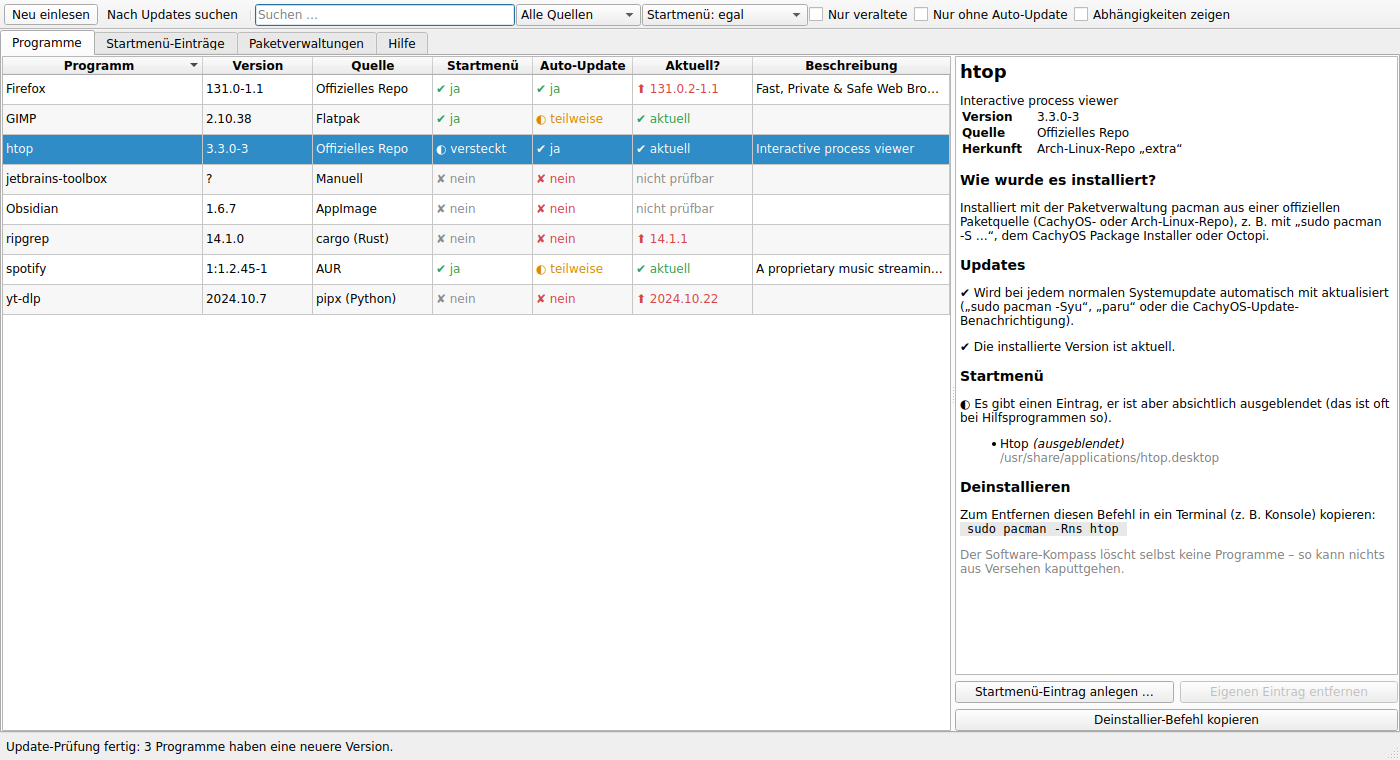
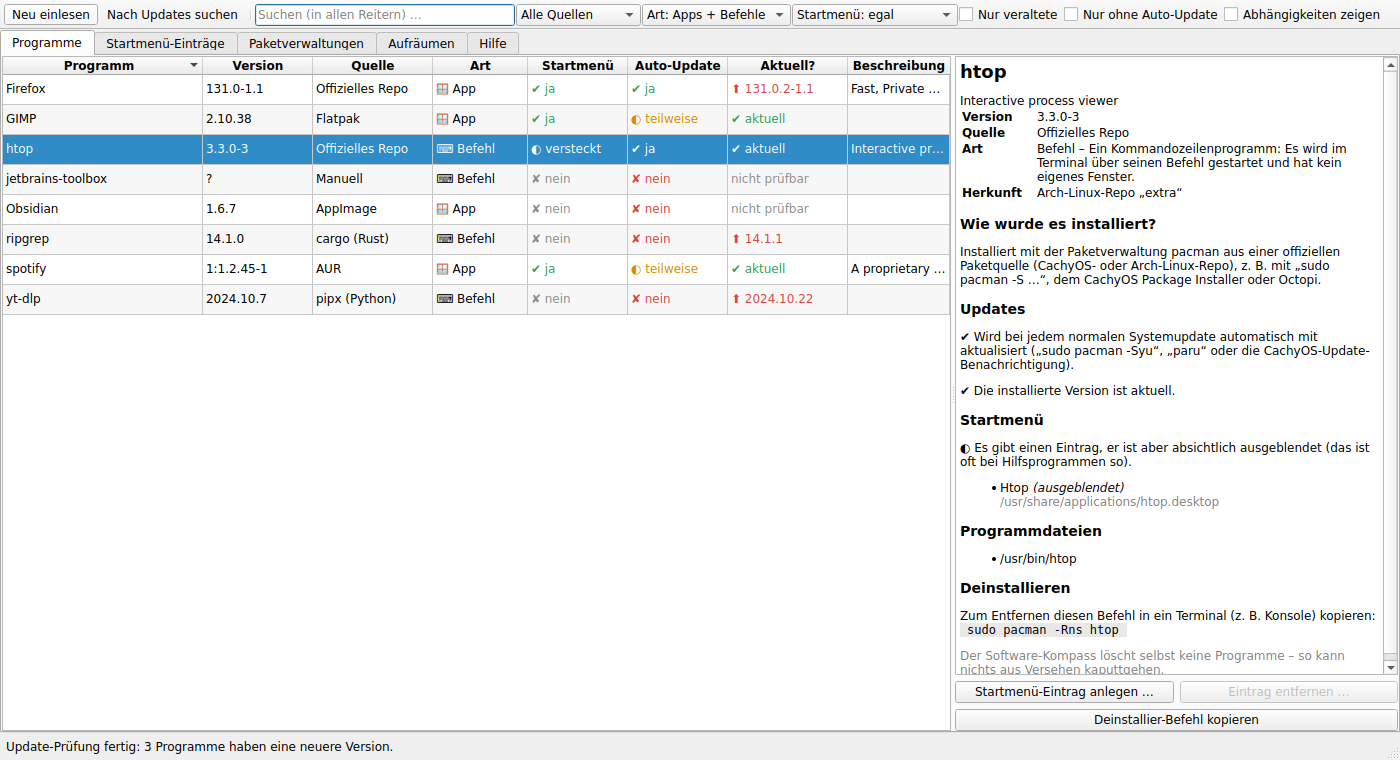
Spalte „Art“ (App / Befehl / Sonstiges) mit Filter (0.4.0)
Jedes Programm wird eingeordnet:
- App: sichtbarer Startmenü-Eintrag, Flatpak oder AppImage
- Befehl: hat Programmdateien, aber keinen sichtbaren Menüeintrag
- Sonstiges: keine Programmdateien (Schriftarten, Treiber, Firmware,
  Bibliotheken, Designs, Sammelpakete)

Neuer Filter „Art“ in der Werkzeugleiste, Standard „Apps + Befehle“ –
also nur, was man als Benutzer starten kann. Die Art erscheint auch in
der Detailansicht und in --cli/--json. Homebrew-Formeln ohne eigenes
Programm werden nicht mehr als Befehl gezählt.

Claude-Session: https://claude.ai/code/session_01Bj8dsgos9An5zq6RmXS7dU

diff --git a/cachy_kompass/gui/table_model.py b/cachy_kompass/gui/table_model.py
@@ -7,15 +7,26 @@ from typing import Any
 from PySide6.QtCore import QAbstractTableModel, QModelIndex, QSortFilterProxyModel, Qt
 from PySide6.QtGui import QColor
 
-from cachy_kompass.models import AutoUpdate, MenuStatus, Program, Source, UpdateStatus
+from cachy_kompass.models import KIND_INFO, AutoUpdate, Kind, MenuStatus, Program, Source, UpdateStatus
 
 GREEN = QColor("#2e9d4f")
 ORANGE = QColor("#d98a00")
 RED = QColor("#d64545")
 GREY = QColor("#8a8a8a")
 
-COLUMNS = ["Programm", "Version", "Quelle", "Startmenü", "Auto-Update", "Aktuell?", "Beschreibung"]
-COL_NAME, COL_VERSION, COL_SOURCE, COL_MENU, COL_AUTO, COL_UPDATE, COL_DESC = range(len(COLUMNS))
+COLUMNS = ["Programm", "Version", "Quelle", "Art", "Startmenü", "Auto-Update", "Aktuell?", "Beschreibung"]
+COL_NAME, COL_VERSION, COL_SOURCE, COL_KIND, COL_MENU, COL_AUTO, COL_UPDATE, COL_DESC = range(len(COLUMNS))
+
+KIND_TEXT = {Kind.APP: "🪟 App", Kind.COMMAND: "⌨ Befehl", Kind.OTHER: "📦 Sonstiges"}
+
+#: Auswahl im Filter „Art“: Beschriftung → erlaubte Arten
+KIND_FILTERS: list[tuple[str, frozenset[Kind]]] = [
+    ("Art: Apps + Befehle", frozenset({Kind.APP, Kind.COMMAND})),
+    ("Art: nur Apps", frozenset({Kind.APP})),
+    ("Art: nur Befehle", frozenset({Kind.COMMAND})),
+    ("Art: nur Sonstiges", frozenset({Kind.OTHER})),
+    ("Art: alles", frozenset(Kind)),
+]
 
 MENU_TEXT = {MenuStatus.VISIBLE: "✔ ja", MenuStatus.HIDDEN: "◐ versteckt", MenuStatus.NONE: "✘ nein"}
 MENU_COLOR = {MenuStatus.VISIBLE: GREEN, MenuStatus.HIDDEN: ORANGE, MenuStatus.NONE: GREY}
@@ -80,6 +91,7 @@ class ProgramTableModel(QAbstractTableModel):
                 p.display_name,
                 p.version,
                 p.info.label,
+                KIND_TEXT[p.kind],
                 MENU_TEXT[p.menu_status],
                 AUTO_TEXT[p.info.auto_update],
                 update_text(p),
@@ -88,6 +100,8 @@ class ProgramTableModel(QAbstractTableModel):
         if role == SORT_ROLE:
             if col == COL_NAME:
                 return p.display_name.lower()
+            if col == COL_KIND:
+                return list(Kind).index(p.kind)
             if col == COL_MENU:
                 return list(MenuStatus).index(p.menu_status)
             if col == COL_AUTO:
@@ -110,6 +124,8 @@ class ProgramTableModel(QAbstractTableModel):
                 return p.update.note
             if col == COL_SOURCE:
                 return p.origin
+            if col == COL_KIND:
+                return KIND_INFO[p.kind]
             if col == COL_DESC:
                 return p.description
         return None
@@ -126,6 +142,8 @@ class ProgramFilterModel(QSortFilterProxyModel):
         self.only_outdated = False
         self.only_manual_update = False
         self.show_dependencies = False
+        # Standard: nur, was man als Benutzer starten kann
+        self.kinds: frozenset[Kind] = KIND_FILTERS[0][1]
         self.setSortRole(SORT_ROLE)
         self.setSortCaseSensitivity(Qt.CaseSensitivity.CaseInsensitive)
 
@@ -140,6 +158,8 @@ class ProgramFilterModel(QSortFilterProxyModel):
         if not self.show_dependencies and not p.explicit:
             return False
         if self.source is not None and p.source is not self.source:
+            return False
+        if p.kind not in self.kinds:
             return False
         if self.menu is not None and p.menu_status is not self.menu:
             return False

diff --git a/cachy_kompass/gui/main_window.py b/cachy_kompass/gui/main_window.py
@@ -41,6 +41,7 @@ from cachy_kompass.gui.table_model import (
     COL_NAME,
     GREEN,
     GREY,
+    KIND_FILTERS,
     ORANGE,
     PROGRAM_ROLE,
     RED,
@@ -111,6 +112,18 @@ class MainWindow(QMainWindow):
         )
         bar.addWidget(self.source_filter)
 
+        self.kind_filter = QComboBox()
+        for label, kinds in KIND_FILTERS:
+            self.kind_filter.addItem(label, kinds)
+        self.kind_filter.setToolTip(
+            "App = Programm mit Fenster · Befehl = fürs Terminal · "
+            "Sonstiges = nicht startbar (Schriftarten, Treiber, Bibliotheken …)"
+        )
+        self.kind_filter.currentIndexChanged.connect(
+            lambda: self.proxy.update_filter(kinds=self.kind_filter.currentData())
+        )
+        bar.addWidget(self.kind_filter)
+
         self.menu_filter = QComboBox()
         self.menu_filter.addItem("Startmenü: egal", None)
         self.menu_filter.addItem("Startmenü: vorhanden", MenuStatus.VISIBLE)
@@ -163,7 +176,7 @@ class MainWindow(QMainWindow):
         header = self.table.horizontalHeader()
         header.setSectionResizeMode(QHeaderView.ResizeMode.Interactive)
         header.setSectionResizeMode(COL_DESC, QHeaderView.ResizeMode.Stretch)
-        for col, width in enumerate([200, 110, 120, 100, 100, 120]):
+        for col, width in enumerate([200, 110, 120, 95, 100, 100, 120]):
             self.table.setColumnWidth(col, width)
         header.setMinimumSectionSize(60)
         self.table.selectionModel().currentRowChanged.connect(self._show_details)

diff --git a/cachy_kompass/models.py b/cachy_kompass/models.py
@@ -46,6 +46,27 @@ class UpdateStatus(Enum):
     NOT_CHECKABLE = "nicht prüfbar"
 
 
+class Kind(Enum):
+    """Was für eine Art von Software ist das – kann man es als Benutzer starten?"""
+
+    APP = "App"            # hat ein Fenster, startet aus dem Startmenü
+    COMMAND = "Befehl"     # Kommandozeilenprogramm fürs Terminal
+    OTHER = "Sonstiges"    # nicht startbar: Bibliothek, Schriftart, Treiber, Design …
+
+
+KIND_INFO: dict[Kind, str] = {
+    Kind.APP: "Ein Programm mit eigenem Fenster, das du aus dem Startmenü starten kannst.",
+    Kind.COMMAND: (
+        "Ein Kommandozeilenprogramm: Es wird im Terminal über seinen Befehl gestartet "
+        "und hat kein eigenes Fenster."
+    ),
+    Kind.OTHER: (
+        "Nichts zum Starten: z. B. eine Bibliothek, Schriftart, ein Treiber, Firmware, "
+        "ein Design oder ein Sammelpaket, das andere Pakete mitbringt."
+    ),
+}
+
+
 class MenuStatus(Enum):
     """Ist das Programm über das Startmenü erreichbar?"""
 
@@ -295,6 +316,15 @@ class Program:
     @property
     def info(self) -> SourceInfo:
         return SOURCE_INFO[self.source]
+
+    @property
+    def kind(self) -> Kind:
+        """App, Befehl oder Sonstiges – siehe ``Kind``."""
+        if self.menu_status is MenuStatus.VISIBLE or self.source in (Source.FLATPAK, Source.APPIMAGE):
+            return Kind.APP
+        if self.executables:
+            return Kind.COMMAND
+        return Kind.OTHER
 
     @property
     def menu_status(self) -> MenuStatus:

diff --git a/tests/test_scanner.py b/tests/test_scanner.py
@@ -44,3 +44,22 @@ def test_check_updates_routes_to_source():
     scanner.apply_updates(progs, results)
     assert progs[0].update.latest == "9"
     assert progs[1].update.status is UpdateStatus.NOT_CHECKED
+
+
+def test_kind_classification(tmp_path):
+    from cachy_kompass.desktop import entry_from_raw
+    from cachy_kompass.models import Kind
+
+    font = Program("ttf-dejavu", "2.37", Source.REPO)
+    git = Program("git", "2.46", Source.REPO, executables=["/usr/bin/git"])
+    firefox = Program("firefox", "131", Source.REPO, executables=["/usr/bin/firefox"])
+    firefox.desktop_entries = [entry_from_raw(tmp_path / "f.desktop", "f.desktop", {"Name": "Firefox", "Exec": "firefox"})]
+    helper = Program("kio", "6", Source.REPO, executables=["/usr/bin/kioclient"])
+    helper.desktop_entries = [entry_from_raw(tmp_path / "k.desktop", "k.desktop", {"Name": "KIO", "NoDisplay": "true"})]
+    assert font.kind is Kind.OTHER
+    assert git.kind is Kind.COMMAND
+    assert firefox.kind is Kind.APP
+    assert helper.kind is Kind.COMMAND  # nur versteckter Eintrag → kein „App“
+    assert Program("org.gimp.GIMP", "2", Source.FLATPAK).kind is Kind.APP
+    assert Program("Obsidian", "1", Source.APPIMAGE).kind is Kind.APP
+    assert Program("lodash", "4", Source.NPM).kind is Kind.OTHER  # Bibliothek ohne Befehle

diff --git a/cachy_kompass/cli.py b/cachy_kompass/cli.py
@@ -14,6 +14,7 @@ def _row(p: Program) -> list[str]:
         p.display_name,
         p.version,
         p.info.label,
+        p.kind.value,
         p.menu_status.value,
         p.info.auto_update.value,
         p.update.status.value + (f" ({p.update.latest})" if p.update.latest and p.update.latest != p.version else ""),
@@ -21,7 +22,7 @@ def _row(p: Program) -> list[str]:
 
 
 def print_table(programs: list[Program]) -> None:
-    header = ["Programm", "Version", "Quelle", "Startmenü", "Auto-Update", "Aktuell?"]
+    header = ["Programm", "Version", "Quelle", "Art", "Startmenü", "Auto-Update", "Aktuell?"]
     rows = [header] + [_row(p) for p in programs]
     widths = [min(max(len(r[i]) for r in rows), 40) for i in range(len(header))]
     for n, row in enumerate(rows):
@@ -38,6 +39,7 @@ def to_json(programs: list[Program]) -> str:
                 "display_name": p.display_name,
                 "version": p.version,
                 "source": p.source.value,
+                "kind": p.kind.value,
                 "origin": p.origin,
                 "explicit": p.explicit,
                 "description": p.description,

diff --git a/cachy_kompass/gui/details.py b/cachy_kompass/gui/details.py
@@ -7,7 +7,7 @@ from html import escape
 
 from cachy_kompass import APP_NAME, __version__, desktop
 from cachy_kompass.installers import InstallerStatus, Rating
-from cachy_kompass.models import SOURCE_INFO, AutoUpdate, MenuStatus, Program, Source, UpdateStatus
+from cachy_kompass.models import KIND_INFO, SOURCE_INFO, AutoUpdate, MenuStatus, Program, Source, UpdateStatus
 
 
 def _row(label: str, value: str) -> str:
@@ -27,6 +27,7 @@ def program_html(p: Program) -> str:
 
     rows = [_row("Version", escape(p.version or "?"))]
     rows.append(_row("Quelle", escape(p.info.label)))
+    rows.append(_row("Art", f"{escape(p.kind.value)} – {escape(KIND_INFO[p.kind])}"))
     if p.origin:
         rows.append(_row("Herkunft", escape(p.origin)))
     if not p.explicit:

diff --git a/cachy_kompass/sources/devtools.py b/cachy_kompass/sources/devtools.py
@@ -209,7 +209,7 @@ class BrewSource(PackageSource):
                 version=version,
                 source=Source.BREW,
                 origin="Homebrew",
-                executables=[f"{prefix}/{name}"] if prefix else [],
+                executables=[f"{prefix}/{name}"] if prefix and Path(f"{prefix}/{name}").exists() else [],
                 url=f"https://formulae.brew.sh/formula/{name}",
             )
             for name, version in versions.items()

diff --git a/cachy_kompass/__init__.py b/cachy_kompass/__init__.py
@@ -3,6 +3,6 @@
 CachyOS-System installiert sind, woher sie stammen und ob sie im Startmenü
 auftauchen."""
 
-__version__ = "0.3.2"
+__version__ = "0.4.0"
 APP_NAME = "Cachy Software-Kompass"
 APP_ID = "cachy-kompass"

diff --git a/README.md b/README.md
@@ -120,6 +120,7 @@ Die Hauptansicht. Jede Zeile ist ein Programm.
 | **Programm** | Name des Programms (wenn möglich so, wie er im Startmenü steht) |
 | **Version** | installierte Version |
 | **Quelle** | auf welchem Weg es installiert wurde (siehe [Begriffe](#begriffe-einfach-erklärt)) |
+| **Art** | 🪟 **App** (Programm mit Fenster) · ⌨ **Befehl** (Kommandozeilenprogramm fürs Terminal) · 📦 **Sonstiges** (nicht startbar: Schriftarten, Treiber, Firmware, Bibliotheken, Designs, Sammelpakete) |
 | **Startmenü** | ✔ sichtbar · ◐ Eintrag vorhanden, aber ausgeblendet · ✘ kein Eintrag |
 | **Auto-Update** | ✔ wird beim Systemupdate mit aktualisiert · ◐ nur mit dem richtigen Werkzeug · ✘ musst du selbst aktualisieren |
 | **Aktuell?** | erst nach Klick auf **„Nach Updates suchen“**: ✔ aktuell · ⬆ neuere Version verfügbar |
@@ -140,6 +141,7 @@ Ein Klick auf eine Spaltenüberschrift sortiert die Liste, zum Beispiel nach
 | **Nach Updates suchen** | fragt im Internet nach neueren Versionen; dabei wird **nichts** installiert |
 | **Suchen …** | filtert **alle Reiter** gleichzeitig: Namen, Beschreibungen, Namen der Startmenü-Einträge (z. B. „Claude Code“ für das Programm `claude`), Befehle und Pfade |
 | **Alle Quellen** | zeigt nur Programme aus einer bestimmten Quelle, z. B. nur Flatpaks |
+| **Art: …** | Standard ist **„Apps + Befehle“**, also alles, was du als Benutzer starten kannst. Schriftarten, Treiber usw. blendest du mit „Art: alles“ oder „nur Sonstiges“ ein. |
 | **Startmenü: …** | zeigt z. B. nur Programme **ohne** Startmenü-Eintrag |
 | **Nur veraltete** | zeigt nur Programme mit verfügbarem Update |
 | **Nur ohne Auto-Update** | zeigt nur Programme, um deren Updates du dich selbst kümmern musst |

diff --git a/CHANGELOG.md b/CHANGELOG.md
@@ -4,6 +4,17 @@ Hier steht, was sich von Version zu Version geändert hat. Die installierte
 Version siehst du im Fenstertitel, im Reiter „Hilfe“ oder mit
 `cachy-kompass --version`.
 
+## 0.4.0
+
+- **Neue Spalte „Art“ mit Filter:** Jedes Programm ist als 🪟 App (mit Fenster),
+  ⌨ Befehl (fürs Terminal) oder 📦 Sonstiges (nicht startbar: Schriftarten,
+  Treiber, Firmware, Bibliotheken, Designs, Sammelpakete) eingeordnet.
+  Standardmäßig zeigt die Liste nur **Apps + Befehle**, also alles, was man als
+  Benutzer starten kann. Die Art steht auch in der Detailansicht und in der
+  Textausgabe (`--cli`, `--json`).
+- Homebrew-Formeln ohne eigenes Programm (Bibliotheken) gelten nicht mehr
+  fälschlich als Befehl.
+
 ## 0.3.2
 
 - **Kein falsches „Programm fehlt“ mehr bei Hintergrunddiensten:** Einträge
